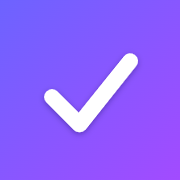
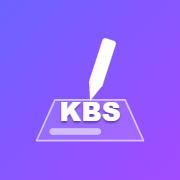
아이콘 되돌리기 — 체크 → 이전 KBS 쓰기 디자인 복원 (sw v40)

Changed region(s): [[0.1944, 0.1944, 0.8056, 0.8056]]

diff --git a/index.html b/index.html
@@ -49,9 +49,15 @@
     .hero { text-align:center; margin:14px 0 22px; }
     .emblem { display:grid; place-items:center; margin:2px auto 12px; }
     .appicon { width:116px; height:116px; border-radius:27px; overflow:hidden; box-shadow:0 12px 28px rgba(20,40,80,.30); display:block; }
-    @keyframes drawcheck { 0%{stroke-dashoffset:760} 34%{stroke-dashoffset:0} 84%{stroke-dashoffset:0} 100%{stroke-dashoffset:760} }
-    .appicon .chk { stroke-dasharray:760; animation:drawcheck 2.6s ease-in-out infinite; }
-    @media (prefers-reduced-motion: reduce) { .appicon .chk { animation:none; stroke-dashoffset:0; } }
+    @keyframes writeKBS { 0%{transform:translate(-96px,0)} 8%{transform:translate(-96px,-9px)} 18%{transform:translate(-96px,2px)} 33%{transform:translate(0,-9px)} 44%{transform:translate(0,2px)} 58%{transform:translate(96px,-9px)} 69%{transform:translate(96px,2px)} 82%{transform:translate(96px,0)} 100%{transform:translate(-96px,0)} }
+    @keyframes kA { 0%,12%{opacity:0} 18%,88%{opacity:1} 96%,100%{opacity:0} }
+    @keyframes kB { 0%,38%{opacity:0} 44%,88%{opacity:1} 96%,100%{opacity:0} }
+    @keyframes kS { 0%,63%{opacity:0} 69%,88%{opacity:1} 96%,100%{opacity:0} }
+    .appicon .pencil { animation:writeKBS 3s ease-in-out infinite; }
+    .appicon .kA { animation:kA 3s ease-in-out infinite; }
+    .appicon .kB { animation:kB 3s ease-in-out infinite; }
+    .appicon .kS { animation:kS 3s ease-in-out infinite; }
+    @media (prefers-reduced-motion: reduce) { .appicon .pencil{animation:none;transform:none} .appicon .kA,.appicon .kB,.appicon .kS{animation:none;opacity:1} }
     .wordmark { display:inline-block; font-family:var(--font-head); font-size:1.9rem; font-weight:800; line-height:1.1; letter-spacing:-.01em; color:var(--ink); }
     .wordmark::after { content:""; display:block; height:4px; border-radius:3px; margin:2px auto 0; background:linear-gradient(90deg,#6d63ff,#a24bff); }
     .subtitle { font-size:.86rem; color:var(--muted); margin-top:10px; letter-spacing:.01em; }
@@ -119,13 +125,25 @@
   <div class="wrap">
     <div class="hero">
       <div class="emblem">
-        <svg class="appicon" viewBox="0 0 1024 1024" role="img" aria-label="점검 완료 아이콘">
+        <svg class="appicon" viewBox="0 0 1024 1024" role="img" aria-label="KBS 업무일지 앱 아이콘">
           <defs>
             <linearGradient id="ibg" x1="0" y1="0" x2="1" y2="1"><stop offset="0" stop-color="#6d63ff"/><stop offset="1" stop-color="#a24bff"/></linearGradient>
-            <filter id="ksh" x="-25%" y="-25%" width="150%" height="150%"><feDropShadow dx="0" dy="10" stdDeviation="16" flood-color="#150a3e" flood-opacity="0.35"/></filter>
+            <filter id="ksh" x="-30%" y="-30%" width="160%" height="170%"><feDropShadow dx="0" dy="8" stdDeviation="12" flood-color="#140a3c" flood-opacity="0.42"/></filter>
           </defs>
           <rect width="1024" height="1024" fill="url(#ibg)"/>
-          <path class="chk" d="M296 552 L452 708 L740 348" fill="none" stroke="#ffffff" stroke-width="90" stroke-linecap="round" stroke-linejoin="round" filter="url(#ksh)"/>
+          <path d="M312 568 H712 L816 800 H208 Z" fill="#ffffff" fill-opacity="0.13" stroke="#ffffff" stroke-opacity="0.6" stroke-width="10" stroke-linejoin="round"/>
+          <path d="M300 748 H556" stroke="#ffffff" stroke-opacity="0.55" stroke-width="38" stroke-linecap="round"/>
+          <g filter="url(#ksh)" font-family="'Pretendard Variable',Pretendard,Arial,sans-serif" font-weight="800" font-size="150" text-anchor="middle" fill="#ffffff">
+            <text class="kA" x="416" y="690">K</text>
+            <text class="kB" x="512" y="690">B</text>
+            <text class="kS" x="608" y="690">S</text>
+          </g>
+          <g class="pencil">
+            <g transform="rotate(18 512 575)">
+              <rect x="472" y="207" width="80" height="278" rx="18" fill="#ffffff"/>
+              <path d="M472 469 L512 575 L552 469 Z" fill="#ffffff"/>
+            </g>
+          </g>
         </svg>
       </div>
       <div class="wordmark">전국 송·중계소</div>

diff --git a/sw.js b/sw.js
@@ -1,5 +1,5 @@
 // KBS 일일업무일지 PWA 서비스워커 — 네트워크 우선 + 오프라인 캐시 폴백
-const CACHE = "ilji-v39";
+const CACHE = "ilji-v40";
 const SHELL = [
   "./", "./index.html", "./daily.html", "./cases.html", "./help.html", "./analysis.html", "./ai.html",
   "./hwpx.js", "./photo.js", "./storage.js", "./photoStorage.js",
